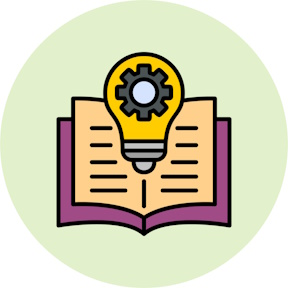
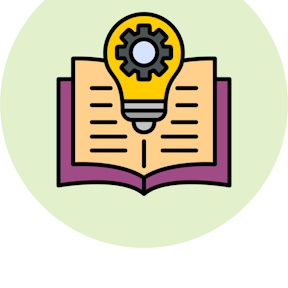
added category parameter to load test

diff --git a/scripts/onload.js b/scripts/onload.js
@@ -187,11 +187,11 @@ function loadResources(){
 	}, 5);
 }
 
-function loadTestBankResources(){
+function loadTestBankResources(c){
 	console.log("loadTestBankResources");
 	$('.reading-pane').attr("src","");
 	setTimeout(function(){
-		$('.reading-pane').attr('src', encodeURI(getLocationPath() + "qtests.html"));
+		$('.reading-pane').attr('src', encodeURI(getLocationPath() + "qtests.html?category="+c));
 	}, 5);
 }
 
@@ -286,11 +286,16 @@ function updateToolDescription(id, opt){
 			toolMessage.html(sdiv);
 			break;
 			
-		case "km":
+		case "km-bca":
 		{
-			toolMessage.html($('<p Style="padding:0;margin:0;"><b>Test</b></p>'));
+			toolMessage.html($('<p Style="padding:0;margin:0;"><b>BCA Questions</b></p>'));
 		}
-		break;		
+		break;
+		case "km-bhms":
+		{
+			toolMessage.html($('<p Style="padding:0;margin:0;"><b>BHMS Questions</b></p>'));
+		}
+		break;
 	}
 }
 

diff --git a/qtests.html b/qtests.html
@@ -12,6 +12,8 @@
 	<script>
 	window.onload = function(){
 	
+	  var category = getParamValue("category") || "bca";
+	  
 	  var toggler = document.getElementsByClassName("caret");
     for (var i = 0; i < toggler.length; i++) {
         toggler[i].addEventListener("click", function() {
@@ -21,7 +23,7 @@
     }
 	  var cat_data = {};
 	  
-	  loadHtmlData(getLocationPath()+"data/categories.csv", function(res){
+	  loadHtmlData(getLocationPath()+"data/"+category+".csv", function(res){
 	      var categories = res.split("\n");
 	      //console.log("cat count = " + categories.length);
 	      categories.forEach(function(cat, index){

diff --git a/index.html b/index.html
@@ -50,7 +50,8 @@
 			  <a target="_blank" href="LICENSE.md">Online Test and Learning Resources</a></b></span>
 			<span class="toolSpan">
 				<img id="theme" style="display:none" class="tool" src="images/theme.png" />
-				<img id="km" class="tool" src="images/km.jpg" onclick="loadTestBankResources()" />
+				<img id="km-bca" alt="BCA Questions" style="cursor:pointer" 
+				     class="tool" src="images/km-bca.jpg" onclick="loadTestBankResources('bca')" />
 			</span>
 			<span class="toolSpan" style="font-size:16px;">
 				<span id="tool-description"/>

diff --git a/styles/styles.css b/styles/styles.css
@@ -82,7 +82,7 @@ body, .toolDiv {
 
 .desktop .toolSpan,.tool {
 	font-size: 14px;
-	height: 24px;
+	height: 42px;
 }
 .mobile .toolSpan,.tool {
 	font-size: 26px;
